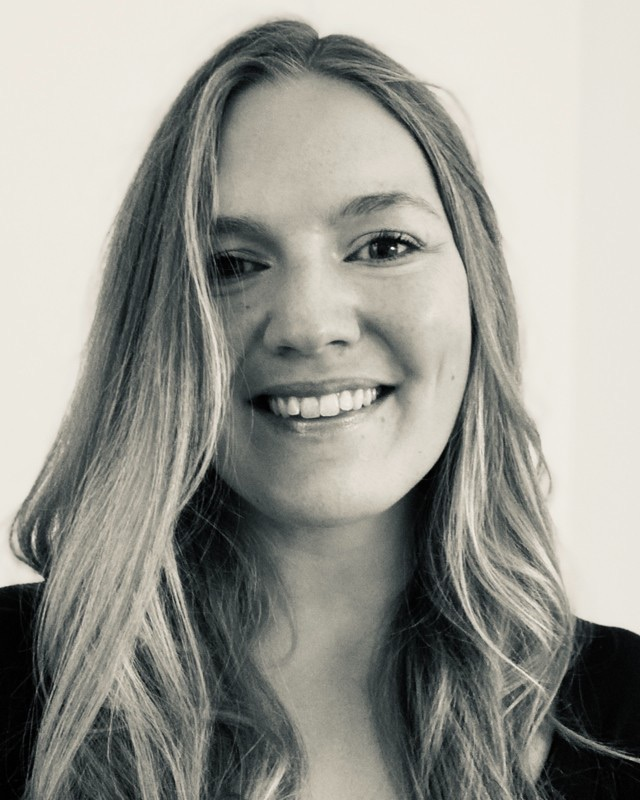
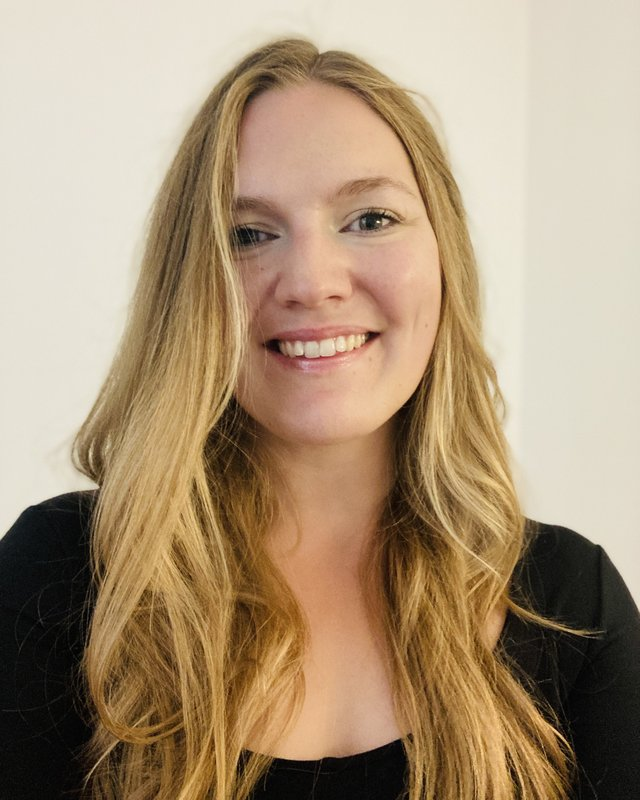
Add Samantha Bennett's bio and new headshot

diff --git a/_people/samantha-bennett.md b/_people/samantha-bennett.md
@@ -1,5 +1,23 @@
 ---
 # Must match `name` in _data/people.yml exactly, "Dr." included.
-# Bio to come: her only link is LinkedIn, which can't be read automatically.
 title: Samantha Bennett
 ---
+Samantha Augusta Bennett is a PhD Candidate at Stanford University, where she
+examines risk, safety, and ethical issues related to emerging technologies,
+especially artificial intelligence (AI). Her current research focuses on
+decision theory, specifically how safety decisions are made under uncertainty.
+She is also developing work on the precautionary principle and how it relates
+to recent advances in AI agents. She is an Affiliate of the Stanford
+Existential Risks Initiative (SERI), where she led the 2026 Summer Fellowship
+Program. She was previously a Fellow at the Stanford Institute for
+Human-Centered Artificial Intelligence (HAI) in 2025 – 2026 and at the McCoy
+Family Center for Ethics in Society in 2024 – 2025. Recently, she presented
+work at the Bovay Engineering and Applied Ethics Workshop on AI Value
+Alignment, KU Leuven’s International Conference on Large-Scale AI Risks, and
+the Canadian Association for the Philosophy of Artificial Intelligence (CAPAI)
+Symposium on Artificial Intelligence. Before coming to Stanford, she worked
+across tech, finance, and law, getting her hands dirty with everything from
+assessing AI companies to helping individuals pursue legal action for Clean Air
+Act violations, exposures to dangerous pesticides, and data breaches. Samantha
+holds an MA in Philosophy (with a concentration in Mathematics) summa cum laude
+from the University of St Andrews and a law conversion degree.
